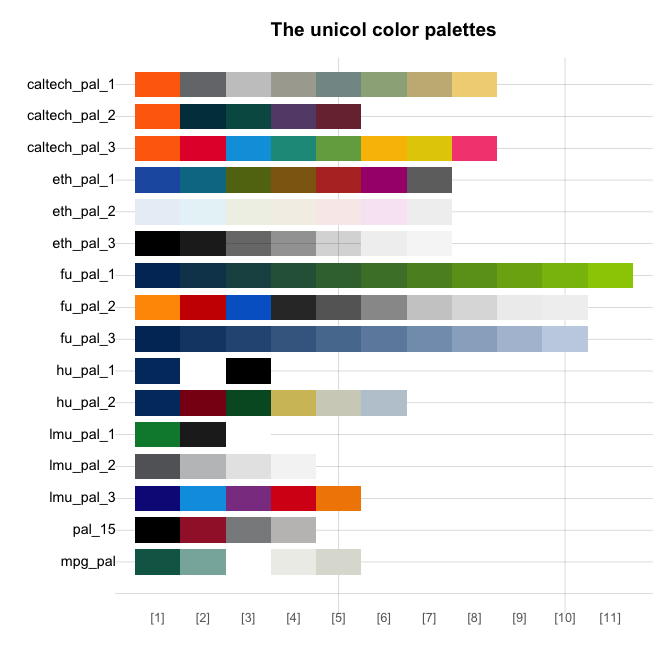
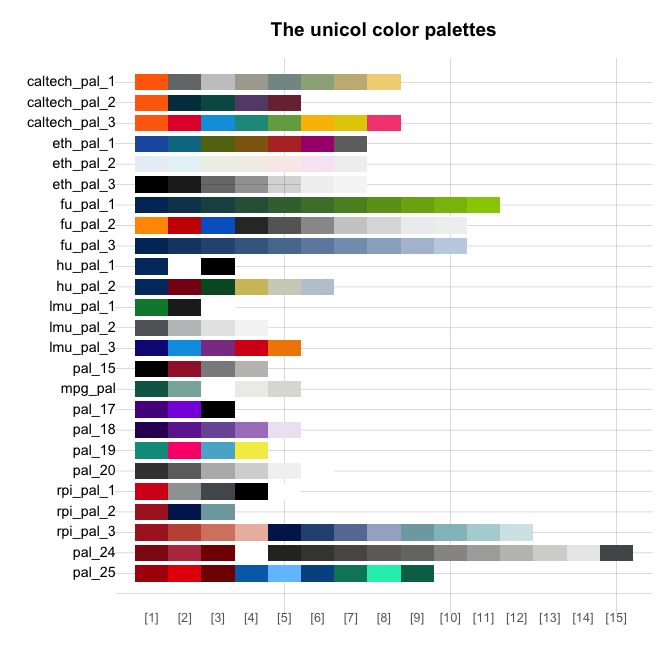
update README

diff --git a/README.md b/README.md
@@ -60,7 +60,7 @@ library(unikn)   # for color functions
 
 <!-- A list of all unicol palettes: -->
 
-The **unicol** package currently contains 16 color palettes (with a
+The **unicol** package currently contains 25 color palettes (with a
 total of Y unique colors) from Z institutions.
 
 An overview of the current color palettes provided by the **unicol**
@@ -86,7 +86,7 @@ demopal(uni_berkeley_primary_1, type = 2, main = "Using the colors of Uni Berkel
 <img src="man/figures/README-examples-2.png" width="600px" style="display: block; margin: auto;" />
 
 ``` r
-demopal(nyu_primary_1, type = 3, main = "NYU colors")
+demopal(nyu_1, type = 3, main = "NYU colors")
 ```
 
 <img src="man/figures/README-examples-3.png" width="600px" style="display: block; margin: auto;" />
